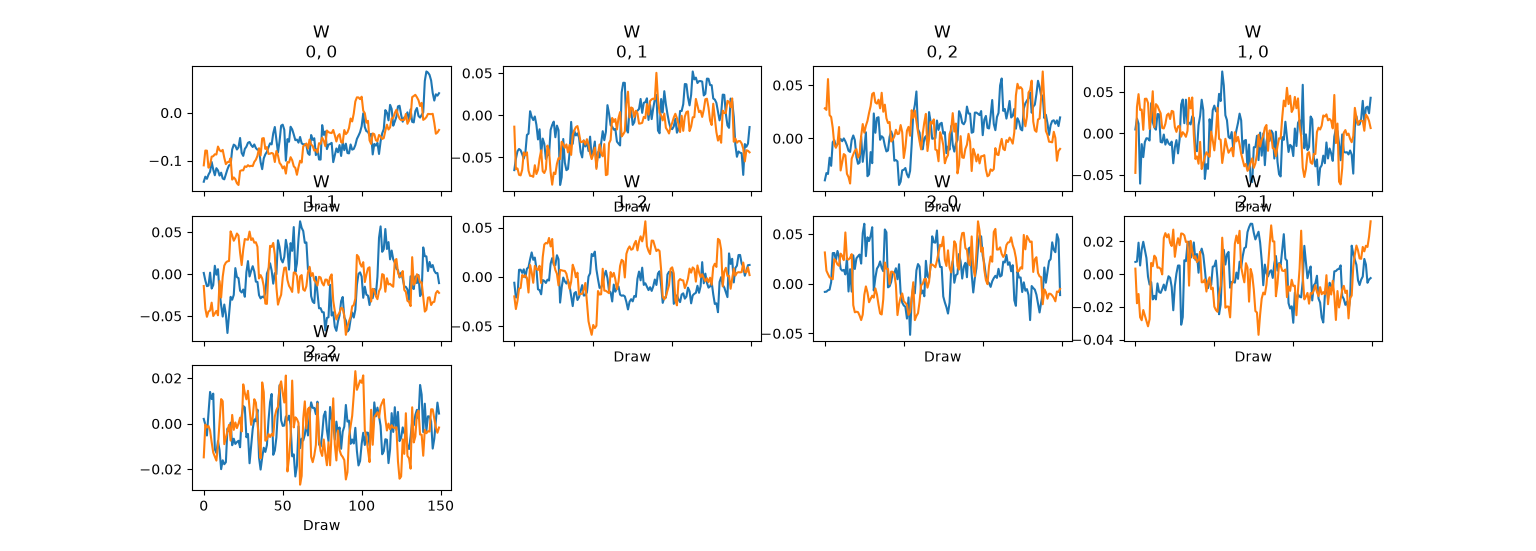
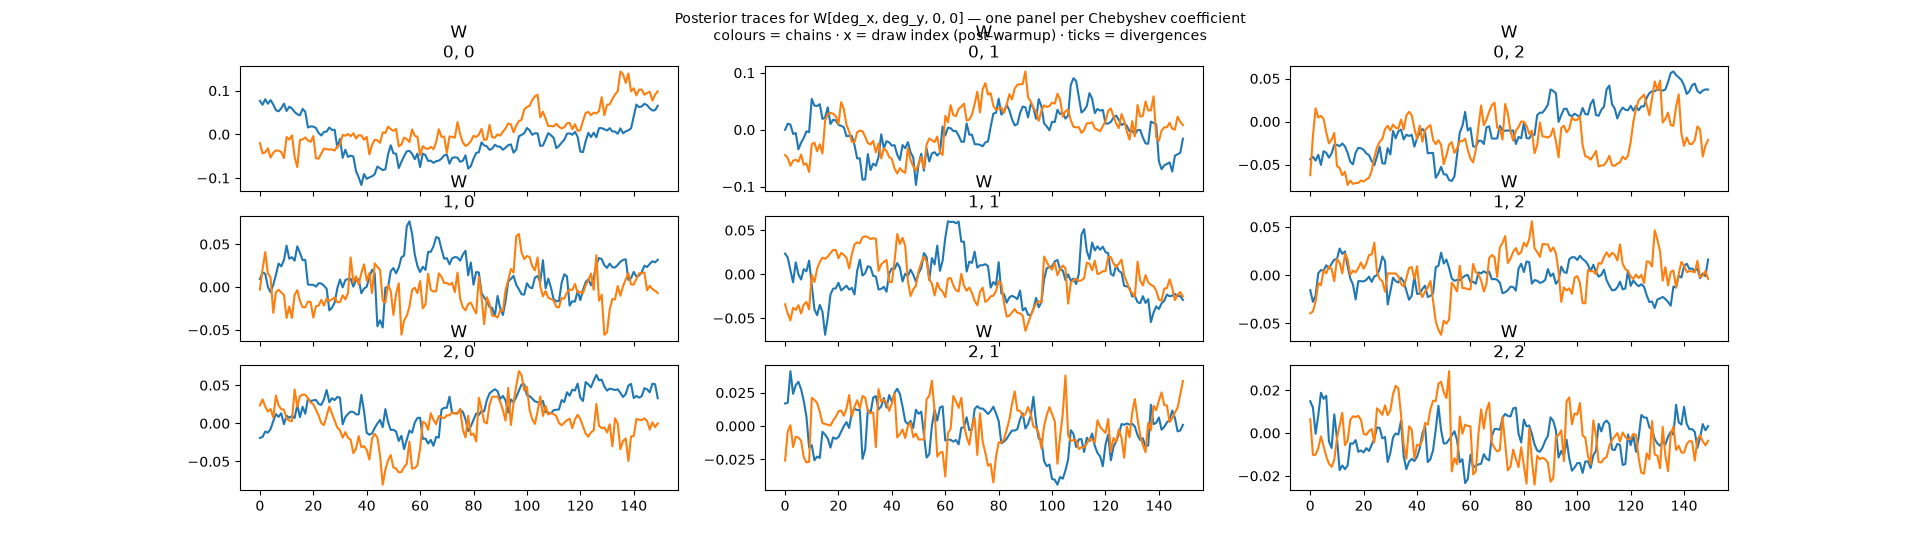
new figures

diff --git a/docs/examples/wppm/nuts_inference_example.py b/docs/examples/wppm/nuts_inference_example.py
@@ -423,7 +423,7 @@ try:
     # its optional progress bar.
     with contextlib.suppress(Exception):
         pc.viz["figure"].item().suptitle(
-            "Posterior traces for W[deg_x, deg_y, 0, 0] — one panel per Chebyshev "
+            "Posterior traces for W[deg_x, deg_y, 0, 0]. 1 panel per Chebyshev "
             "coefficient\ncolours = chains · x = draw index (post-warmup) · "
             "ticks = divergences",
             fontsize=10,
@@ -553,7 +553,7 @@ configs = [
     (
         WPPMCovarianceField(model, map_posterior.params),
         "#cc7700",
-        f"MAP ({MAP_STEPS} steps) — a single contour, no width",
+        f"MAP ({MAP_STEPS} steps)",
         False,
     ),
     (
